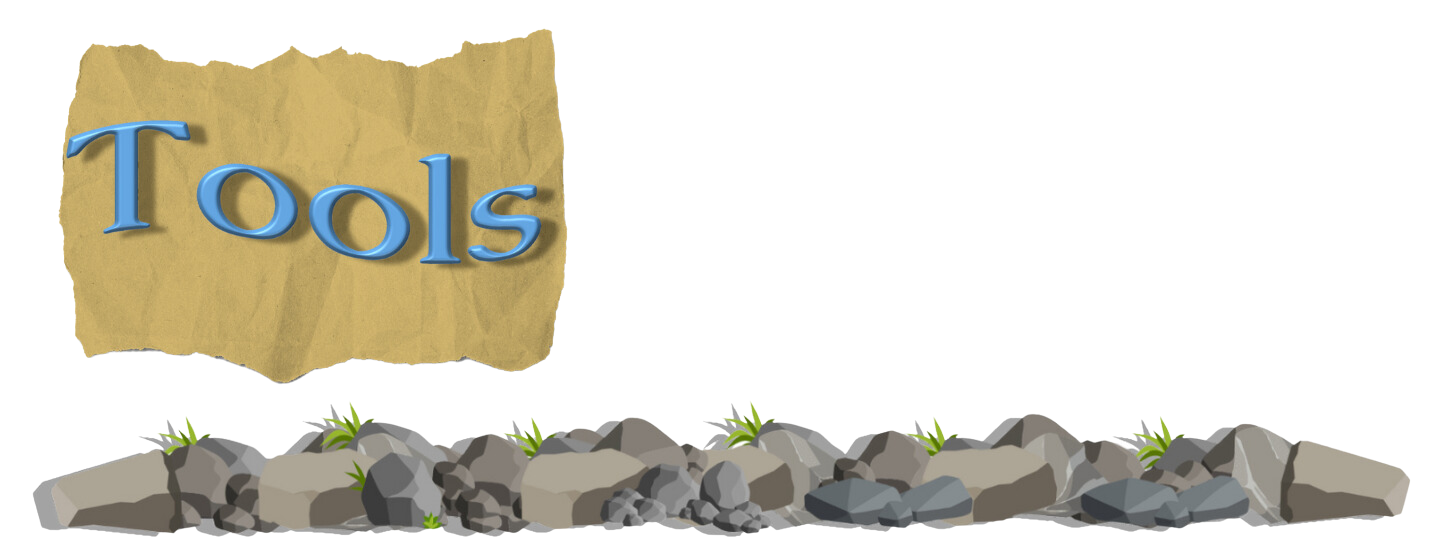
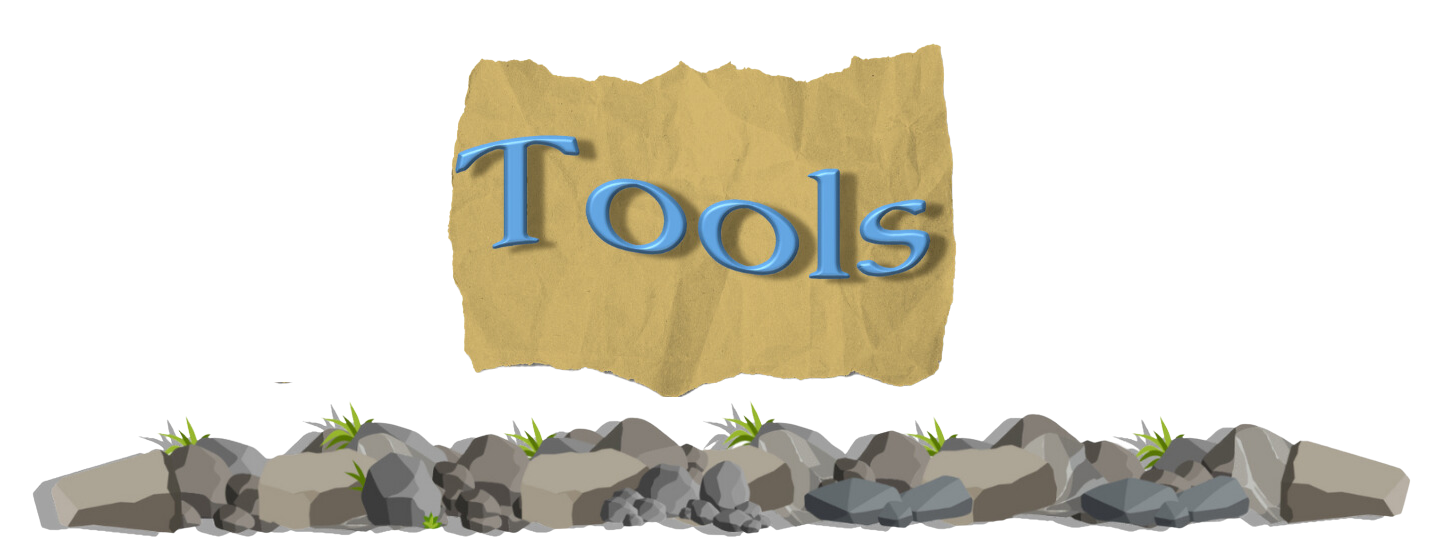
Finishing ront-page

diff --git a/interpage.css b/interpage.css
@@ -39,3 +39,66 @@
     font-weight: bold;
     text-shadow: 1px 1px 0 #FFF; /* Retro text shadow effect */
 }
+
+.st-emotion-cache-6vrlx3 {
+    position: relative;
+    display: flex;
+    width: 100%;
+    font-size: 16px; /* Slightly larger to mimic older UIs */
+    padding: 0.75rem 1rem;
+    list-style-type: none;
+    font-family: 'New Tegomin', serif; /* Using Roboto Mono for a retro-modern look */
+    background-color: #f0f0f0; /* Muted background color for a classic feel */
+    color: #333; /* Darker text for contrast */
+    border: 2px solid #8B4513; /* Adding a solid border for a vintage look */
+    border-radius: 4px; /* Slightly rounded corners */
+    box-shadow: 0 2px 2px rgba(0,0,0,0.2); /* Adding a subtle shadow for depth */
+    margin: 10px 2px;
+}
+
+.st-emotion-cache-13na8ym {
+    margin-bottom: 10px; /* Adjusted for better spacing */
+    margin-top: 10px; /* Adjusted for better spacing */
+    width: 100%;
+    border-style: solid;
+    border-width: 2px; /* Increased width for a more pronounced border */
+    border-color: #8B4513; /* Changed to a darker, vintage-inspired color */
+    border-radius: 4px; /* Adjusted radius for a slightly more retro feel */
+    background-color: #f5f5dc; /* Optional: adding a retro background color */
+    box-shadow: 0 2px 2px rgba(0,0,0,0.2); /* Optional: adding a shadow for depth */
+}
+
+/* EXPANDER */
+.st-emotion-cache-sh2krr {
+    display: flex;
+    justify-content: center;
+    align-items: center;
+}
+
+/* EXPANDER TEXT */
+.st-emotion-cache-sh2krr p {
+    font-family: 'New Tegomin', serif !important;
+    font-size: 30px !important;
+}
+
+/* SIDEBAR BUTTON */
+.st-emotion-cache-uhu6ih {
+    display: inline-flex;
+    align-items: center;
+    justify-content: center;
+    font-weight: bold; /* Enhanced text weight for readability */
+    margin: 0px 0.125rem;
+    color: #4B3621; /* Switched to a deep, warm brown for text, evoking a vintage vibe */
+    width: auto;
+    user-select: none;
+    font-size: 16px; /* Adjusted for a balanced appearance */
+    line-height: 1.2;
+    min-width: 2rem;
+    min-height: 2rem;
+    padding: 0.5rem; /* Providing enough space for interaction */
+    background: linear-gradient(to right, #665D1E, #F4F3EE); /* A gradient from dark olive to a soft, antique white */
+    border: 3px solid #8B4513; /* A rich saddle brown for the border, adding to the vintage look */
+    border-radius: 0; /* Keeping elements squarely shaped for a retro feel */
+    box-shadow: 2px 2px 0px #3C280D; /* A darker shadow for depth, using a deep brown */
+    text-shadow: 1px 1px #F5F5DC; /* A subtle, light shadow for the text, enhancing legibility */
+}

diff --git a/main.py b/main.py
@@ -30,7 +30,7 @@ with col2:
         </p>
     """, unsafe_allow_html=True)
 
-st.image(image='src/assets/tools.png')
+st.image(image='src/assets/tools.png', width=900)
 
 # ABILITIES COLUMNS
 abilities = st.columns(3, gap='small')
@@ -42,14 +42,24 @@ with abilities[0]:
     ico("Java", "https://cdn.jsdelivr.net/gh/devicons/devicon@latest/icons/java/java-original.svg")
     ico("Python", "https://cdn.jsdelivr.net/gh/devicons/devicon@latest/icons/python/python-original.svg")
 
+    planck('OTHER')
+    ico("JSON", "https://cdn.jsdelivr.net/gh/devicons/devicon@latest/icons/json/json-original.svg")
+    ico("LaTeX", "https://cdn.jsdelivr.net/gh/devicons/devicon@latest/icons/tex/tex-original.svg")
+
+
 with abilities[1]:
     planck('FRONT-END')
     ico("HTML5", "https://cdn.jsdelivr.net/gh/devicons/devicon@latest/icons/html5/html5-original.svg")
-    ico("CSS", "https://cdn.jsdelivr.net/gh/devicons/devicon@latest/icons/css3/css3-original.svg")
+    ico("CSS3", "https://cdn.jsdelivr.net/gh/devicons/devicon@latest/icons/css3/css3-original.svg")
     ico("Javascript", "https://cdn.jsdelivr.net/gh/devicons/devicon@latest/icons/javascript/javascript-original.svg")
 
 with abilities[2]:
     planck('DATA')
-    ico("SQLite", "https://cdn.jsdelivr.net/gh/devicons/devicon@latest/icons/sqlite/sqlite-original.svg")
-    ico("SQL Server", "https://cdn.jsdelivr.net/gh/devicons/devicon@latest/icons/microsoftsqlserver/microsoftsqlserver-original.svg")
-    ico("Azure SQL", "https://cdn.jsdelivr.net/gh/devicons/devicon@latest/icons/azuresqldatabase/azuresqldatabase-original.svg")
+    with st.expander('SQL Lang'):
+        ico("SQLite", "https://cdn.jsdelivr.net/gh/devicons/devicon@latest/icons/sqlite/sqlite-original.svg")
+        ico("SQL Server", "https://cdn.jsdelivr.net/gh/devicons/devicon@latest/icons/microsoftsqlserver/microsoftsqlserver-original.svg")
+        ico("Azure SQL", "https://cdn.jsdelivr.net/gh/devicons/devicon@latest/icons/azuresqldatabase/azuresqldatabase-original.svg")
+    with st.expander('Python Libs'):
+        ico('Pandas', "https://cdn.jsdelivr.net/gh/devicons/devicon@latest/icons/pandas/pandas-original.svg")
+        ico('Matplot', "https://cdn.jsdelivr.net/gh/devicons/devicon@latest/icons/matplotlib/matplotlib-original.svg")
+        ico('Plotly', "https://cdn.jsdelivr.net/gh/devicons/devicon@latest/icons/plotly/plotly-original.svg")
